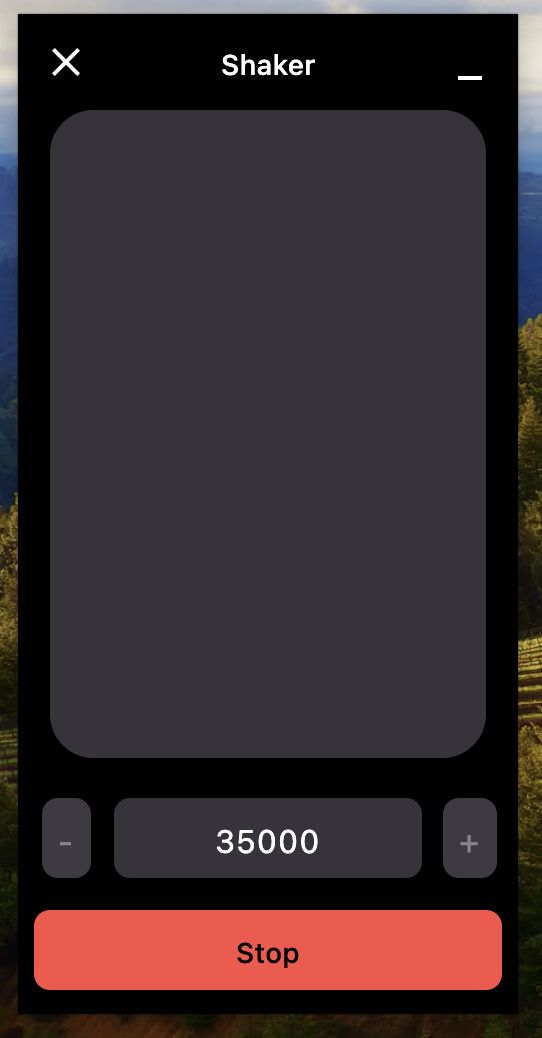
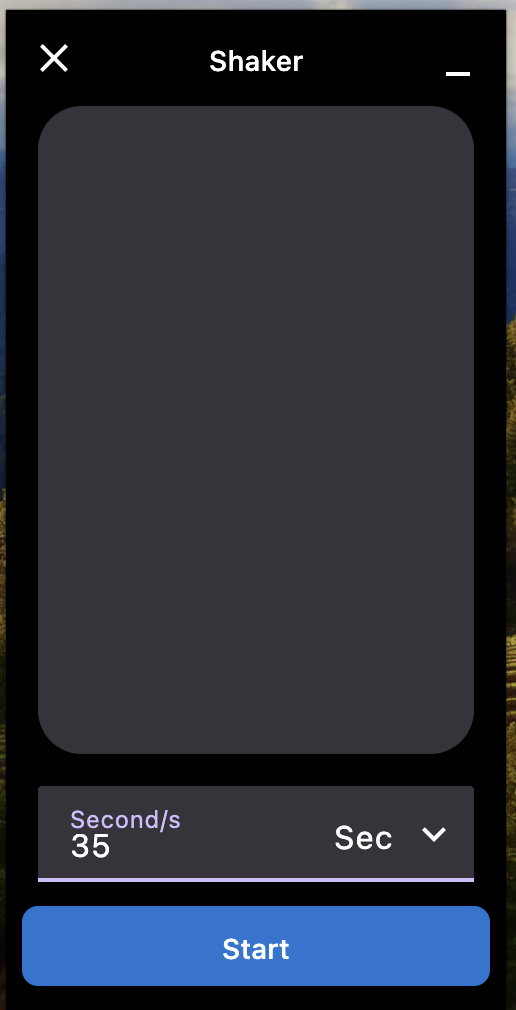
:rocket: adds product screenshot

Changed region(s): [[0.0, 0.0, 1.0, 1.0], [0.0, 0.8287, 0.031, 0.8901]]

diff --git a/src/main/kotlin/org/bizilabs/apps/shaker/screen/MainScreen.kt b/src/main/kotlin/org/bizilabs/apps/shaker/screen/MainScreen.kt
@@ -9,7 +9,6 @@ import androidx.compose.foundation.layout.fillMaxSize
 import androidx.compose.foundation.layout.fillMaxWidth
 import androidx.compose.foundation.layout.height
 import androidx.compose.foundation.layout.padding
-import androidx.compose.foundation.layout.wrapContentSize
 import androidx.compose.foundation.shape.RoundedCornerShape
 import androidx.compose.material.icons.Icons
 import androidx.compose.material.icons.filled.Close
@@ -42,7 +41,6 @@ import cafe.adriel.voyager.core.screen.Screen
 import io.github.alexzhirkevich.compottie.LottieCompositionSpec
 import io.github.alexzhirkevich.compottie.Url
 import io.github.alexzhirkevich.compottie.rememberLottieComposition
-import org.bizilabs.apps.shaker.components.DropDownTextField
 import org.bizilabs.apps.shaker.theme.ShakerTheme
 
 class MainScreen(
@@ -143,22 +141,24 @@ fun MainScreenContent(
                         },
                         label = {
                             Text(
-                                text = when (state.option) {
-                                    DelayOption.Second -> "Second/s"
-                                    DelayOption.Minute -> "Minute/s"
-                                }
+                                text =
+                                    when (state.option) {
+                                        DelayOption.Second -> "Second/s"
+                                        DelayOption.Minute -> "Minute/s"
+                                    },
                             )
                         },
                         trailingIcon = {
                             Card(
                                 enabled = state.active.not(),
                                 onClick = {
-                                    val option = when (state.option) {
-                                        DelayOption.Second -> DelayOption.Minute
-                                        else -> DelayOption.Second
-                                    }
+                                    val option =
+                                        when (state.option) {
+                                            DelayOption.Second -> DelayOption.Minute
+                                            else -> DelayOption.Second
+                                        }
                                     onAction(MainScreenAction.UpdateOption(option))
-                                }
+                                },
                             ) {
                                 Row(
                                     modifier = Modifier.padding(8.dp),
@@ -166,15 +166,16 @@ fun MainScreenContent(
                                     horizontalArrangement = Arrangement.spacedBy(8.dp),
                                 ) {
                                     Text(
-                                        text = when (state.option) {
-                                            DelayOption.Second -> "Sec"
-                                            DelayOption.Minute -> "Min"
-                                        }
+                                        text =
+                                            when (state.option) {
+                                                DelayOption.Second -> "Sec"
+                                                DelayOption.Minute -> "Min"
+                                            },
                                     )
                                     Icon(imageVector = Icons.Filled.KeyboardArrowDown, contentDescription = "Min")
                                 }
                             }
-                        }
+                        },
                     )
                 }
             }

diff --git a/src/main/kotlin/org/bizilabs/apps/shaker/screen/MainScreenModel.kt b/src/main/kotlin/org/bizilabs/apps/shaker/screen/MainScreenModel.kt
@@ -16,12 +16,13 @@ sealed interface MainScreenAction {
     data class UpdateOffset(val offset: Int) : MainScreenAction
 
     data class UpdateCount(val count: String) : MainScreenAction
+
     data class UpdateOption(val option: DelayOption) : MainScreenAction
 }
 
 enum class DelayOption {
     Second,
-    Minute
+    Minute,
 }
 
 data class MainScreenState(
@@ -32,10 +33,11 @@ data class MainScreenState(
     val options: List<DelayOption> = DelayOption.entries,
 ) {
     val delay: Long
-        get() = when (option) {
-            DelayOption.Second -> secondsToMillis(count.toLongOrNull() ?: 30L)
-            DelayOption.Minute -> minutesToMillis(count.toLongOrNull() ?: 3)
-        }
+        get() =
+            when (option) {
+                DelayOption.Second -> secondsToMillis(count.toLongOrNull() ?: 30L)
+                DelayOption.Minute -> minutesToMillis(count.toLongOrNull() ?: 3)
+            }
 }
 
 class MainScreenModel(
@@ -89,6 +91,6 @@ private fun secondsToMillis(seconds: Long): Long {
     return seconds * 1000
 }
 
-fun minutesToMillis(minutes: Long): Long {
+private fun minutesToMillis(minutes: Long): Long {
     return minutes * 60 * 1000
 }

diff --git a/src/main/kotlin/org/bizilabs/apps/shaker/components/DropDownTextField.kt b/src/main/kotlin/org/bizilabs/apps/shaker/components/DropDownTextField.kt
@@ -1,7 +1,5 @@
 package org.bizilabs.apps.shaker.components
 
-import androidx.compose.foundation.layout.ColumnScope
-import androidx.compose.foundation.text.input.TextFieldLineLimits
 import androidx.compose.material3.DropdownMenuItem
 import androidx.compose.material3.ExperimentalMaterial3Api
 import androidx.compose.material3.ExposedDropdownMenuBox
@@ -23,7 +21,7 @@ fun <T> DropDownTextField(
     modifier: Modifier = Modifier,
     label: String = "Select",
     onValueChange: (T) -> Unit = {},
-    content: @Composable (T) -> Unit
+    content: @Composable (T) -> Unit,
 ) {
     var expanded by remember { mutableStateOf(false) }
 
